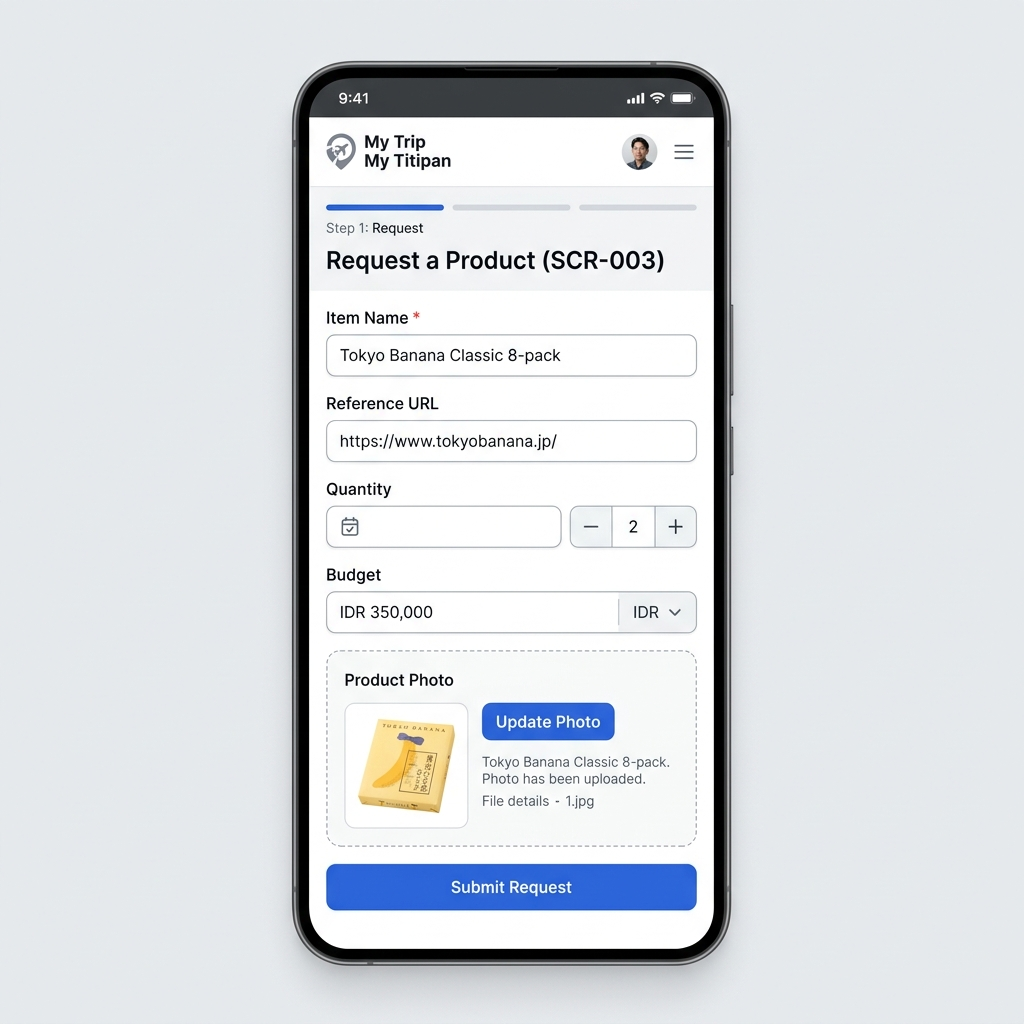
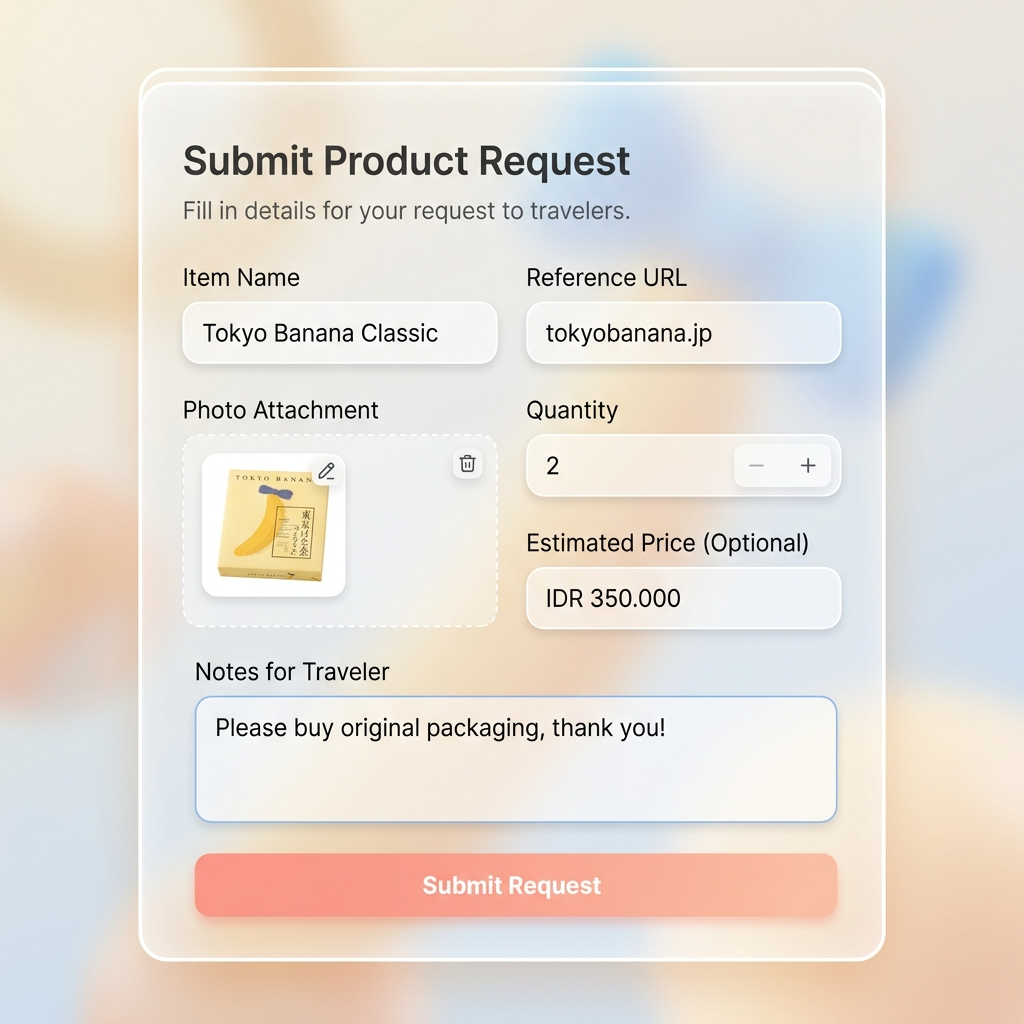
[UXA] [Design] [Refresh Phase 1 request mockups and terminology]

diff --git a/docs/02-product/flows/core-user-flow.md b/docs/02-product/flows/core-user-flow.md
@@ -11,7 +11,6 @@ outputs:
   - ux-flow
   - technical-requirement
 ---
-
 # Core User Flow
 
 > **Status**: Approved **Last Updated**: 2026-06-14
@@ -21,9 +20,10 @@ This document defines the primary happy path user flow for the Phase 1 Foundatio
 ---
 
 ## 1. Actors & Objectives
-*   **Traveler:** Publishes upcoming itineraries, accepts requests, and manual updates request status as they buy/ship.
-*   **Shopper:** Submits structured item requests, tracks the timeline, confirms receipt, and reviews the traveler.
-*   **Goal:** Enable request list tracking and progress coordination without payment/escrow constraints.
+
+- **Traveler:** Publishes upcoming itineraries, accepts requests, and manual updates request status as they buy/ship.
+- **Shopper:** Submits structured item requests, tracks the timeline, confirms receipt, and reviews the traveler.
+- **Goal:** Enable request list tracking and progress coordination without payment/escrow constraints.
 
 ---
 
@@ -54,8 +54,9 @@ sequenceDiagram
 ```
 
 ### Flow Steps Details:
-1.  **Supply Creation:** Traveler registers destination, travel dates, and optional notes (space limits, preferred stores) and copies the generated link.
-2.  **Request Submission:** Shopper visits trip page, authenticates (Google/OTP), reviews traveler's completed requests/reviews, and submits request details (item name, photo, reference URL, quantity, notes).
-3.  **Acceptance:** Traveler reviews incoming request backlog and clicks "Accept Request", shifting the request state to `ACCEPTED`.
-4.  **Fulfillment Coordination:** Traveler updates progress to `IN_PROGRESS` while sourcing or handling coordination, and then clicks "Mark Ready" to shift the request state to `READY_FOR_DELIVERY`. Offline payment and handover methods are settled directly.
-5.  **Receipt & Review:** Shopper receives the item, clicks "Confirm Receipt" (moving the request state to `COMPLETED`), and fills the review form with a star rating and written feedback.
+
+1. **Supply Creation:** Traveler registers destination, travel dates, and optional notes (space limits, preferred stores) and copies the generated link.
+2. **Request Submission:** Shopper visits trip page, authenticates (Google/OTP), reviews traveler's completed requests/reviews, and submits request details (item name, photo, reference URL, quantity, notes).
+3. **Acceptance:** Traveler reviews incoming request backlog and clicks "Accept Request", shifting the request state to `ACCEPTED`.
+4. **Fulfillment Coordination:** Traveler updates progress to `IN_PROGRESS` while sourcing or handling coordination, and then clicks "Mark Ready" to shift the request state to `READY_FOR_DELIVERY`. Offline payment and handover methods are settled directly.
+5. **Receipt & Review:** Shopper receives the item, clicks "Confirm Receipt" (moving the request state to `COMPLETED`), and fills the review form with a star rating and written feedback.

diff --git a/docs/03-design/phases/phase-1/wireframe-scope.md b/docs/03-design/phases/phase-1/wireframe-scope.md
@@ -16,14 +16,14 @@ This document specifies the exact screen inventory, user access permissions, and
 | --- | --- | --- | --- | --- | --- |
 | **SCR-001** | Login | All | Authenticates users via Google SSO or mobile phone OTP. | "Log in with Google", "Send OTP" | Landing / Redirected |
 | **SCR-002** | Trip Landing Page | Shopper (Public) | Public page showing traveler profile, travel routes, dates, past completed trips, and shopper reviews. | "Request Item" | Clicked Shared Link |
-| **SCR-003** | Request Form | Shopper | Structured input form to submit product name, URL, photo, and max budget. | "Submit Request" | SCR-002 |
+| **SCR-003** | Request Form | Shopper | Structured input form to submit product name, URL, photo, estimated/reference price, and notes for traveler. | "Submit Request" | SCR-002 |
 | **SCR-004** | Shopper Dashboard | Shopper | Personal space to manage active requests, tracking progress, and profile details. | "Confirm Receipt", "View Details" | SCR-001 |
 | **SCR-005** | Request Detail | Shopper | Shopper-side tracking view showing request timeline progression. | "Confirm Receipt", "Cancel Request" | SCR-004 |
-| **SCR-006** | Traveler Dashboard | Traveler | Portal showing active trips, pending incoming shopper requests, active orders, and profile stats. | "+ Create Trip", "Review Request" | SCR-001 |
-| **SCR-007** | Create Trip | Traveler | Form to publish travel details: departure/arrival airports, dates, and capacity notes. | "Publish Trip" | SCR-006 |
+| **SCR-006** | Traveler Dashboard | Traveler | Portal showing active trips, pending incoming shopper requests, active requests, and profile stats. | "+ Create Trip", "Review Request" | SCR-001 |
+| **SCR-007** | Create Trip | Traveler | Form to publish travel details: departure/arrival airports, dates, and optional coordinator notes. | "Publish Trip" | SCR-006 |
 | **SCR-008** | Trip Share | Traveler | Displays the unique shareable link for copying and posting. | "Copy Link", "Share to WhatsApp" | SCR-007 |
 | **SCR-009** | Request Review | Traveler | Interface for reviewing shopper request parameters. | "Accept Request", "Decline Request" | SCR-006 / Email Alert |
-| **SCR-010** | Traveler Request Detail| Traveler | Detailed request tracking screen with status indicators and state transitions. | "Update Progress", "Mark Ready", "Hand Over Item" | SCR-006 |
+| **SCR-010** | Traveler Request Detail| Traveler | Detailed request tracking screen with status indicators and state transitions. | "Update Progress", "Mark Ready", "Fulfill Request" | SCR-006 |
 | **SCR-011** | Review Form | Shopper | Text and star rating form to evaluate traveler performance after receipt. | "Submit Review" | SCR-005 / SCR-004 |
 
 ---

diff --git a/docs/03-design/mockups/README.md b/docs/03-design/mockups/README.md
@@ -16,15 +16,13 @@ The mockup status tracking matrix for all 13 screens in the MVP:
 | **SCR-002** | Trip Landing Page | ✅ | N/A | Mockup Completed | [shopper/trip-page.png](shopper/trip-page.png) |
 | **SCR-003** | Product Request Form | ✅ | N/A | Mockup Completed | [shopper/request-form.png](shopper/request-form.png) |
 | **SCR-004** | Shopper Dashboard | ✅ | N/A | Mockup Completed | [shopper/shopper-dashboard.png](shopper/shopper-dashboard.png) |
-| **SCR-005** | Quote & Checkout Page | ✅ | N/A | Mockup Completed | [shopper/checkout.png](shopper/checkout.png) |
+| **SCR-005** | Request Detail | ✅ | N/A | Mockup Completed | [shopper/request-detail.png](shopper/request-detail.png) |
 | **SCR-006** | Traveler Dashboard | ✅ | N/A | Mockup Completed | [traveler/trip-dashboard.png](traveler/trip-dashboard.png) |
 | **SCR-007** | Create Trip Form | ⬜ | N/A | Pending wireframe approval | - |
 | **SCR-008** | Trip Share Modal | ⬜ | N/A | Pending wireframe approval | - |
 | **SCR-009** | Request Review Screen | ⬜ | N/A | Pending wireframe approval | - |
-| **SCR-010** | Traveler Order Details | ✅ | N/A | Mockup Completed | [traveler/order-details.png](traveler/order-details.png) |
+| **SCR-010** | Traveler Request Detail | ✅ | N/A | Mockup Completed | [traveler/request-detail.png](traveler/request-detail.png) |
 | **SCR-011** | Review Submission | ⬜ | N/A | Pending wireframe approval | - |
-| **SCR-012** | Admin Dashboard | N/A | ⬜ | Pending wireframe approval | - |
-| **SCR-013** | Admin Dispute Manager | N/A | ⬜ | Pending wireframe approval | - |
 
 ## Review Process
 

diff --git a/docs/03-design/HANDOFF.md b/docs/03-design/HANDOFF.md
@@ -95,11 +95,11 @@ Every status has:
 2. **SCR-007: Create Trip**: Simple itinerary form.
 3. **SCR-008: Trip Share**: Success modal showing share links.
 4. **SCR-009: Request Review**: Sourcing request details with Accept/Decline triggers.
-5. **SCR-010: Traveler Request Detail**: Progress tracker with state-advancement actions ("Update Progress", "Mark Ready", "Hand Over").
+5. **SCR-010: Traveler Request Detail**: Progress tracker with state-advancement actions ("Update Progress", "Mark Ready", "Fulfill Request").
 
 ### Shopper Screens:
 1. **SCR-002: Trip Landing Page**: Public landing page seen by shoppers clicking shared links. Displays route and traveler history.
-2. **SCR-003: Request Form**: Inputs for product details, URLs, quantity, budget, and image.
+2. **SCR-003: Request Form**: Inputs for product details, URLs, quantity, estimated/reference price, and image.
 3. **SCR-004: Shopper Dashboard**: Main view containing the list of active shopper requests.
 4. **SCR-005: Request Detail**: Tracking dashboard mapping the request status timeline.
 5. **SCR-011: Review Form**: Rating selector and text feedback block.

diff --git a/docs/03-design/phases/phase-1/requirements.md b/docs/03-design/phases/phase-1/requirements.md
@@ -21,7 +21,7 @@ This document outlines the UX requirements, layout specifications, state transit
 
 ### Shopper Landing Pages & Dashboards
 - **Trip Landing Page**: Public landing screen displaying traveler routes, dates, past completed trips list, and shopper reviews. Primary CTA: "Request Item".
-- **Request Form**: Form fields for item name, quantity, estimated budget/price, reference link, notes, and photo attachment.
+- **Request Form**: Form fields for item name, quantity, estimated/reference price, reference link, notes for traveler, and photo attachment.
 - **Shopper Dashboard**: Home view containing Shopper's active requests log.
 - **Request Detail**: Progress tracker with visual timeline (Requested -> Accepted -> In Progress -> Ready for Delivery -> Completed).
 - **Review Form**: Feedback submission interface consisting of a star rating selector (1-5 stars) and a text area.
